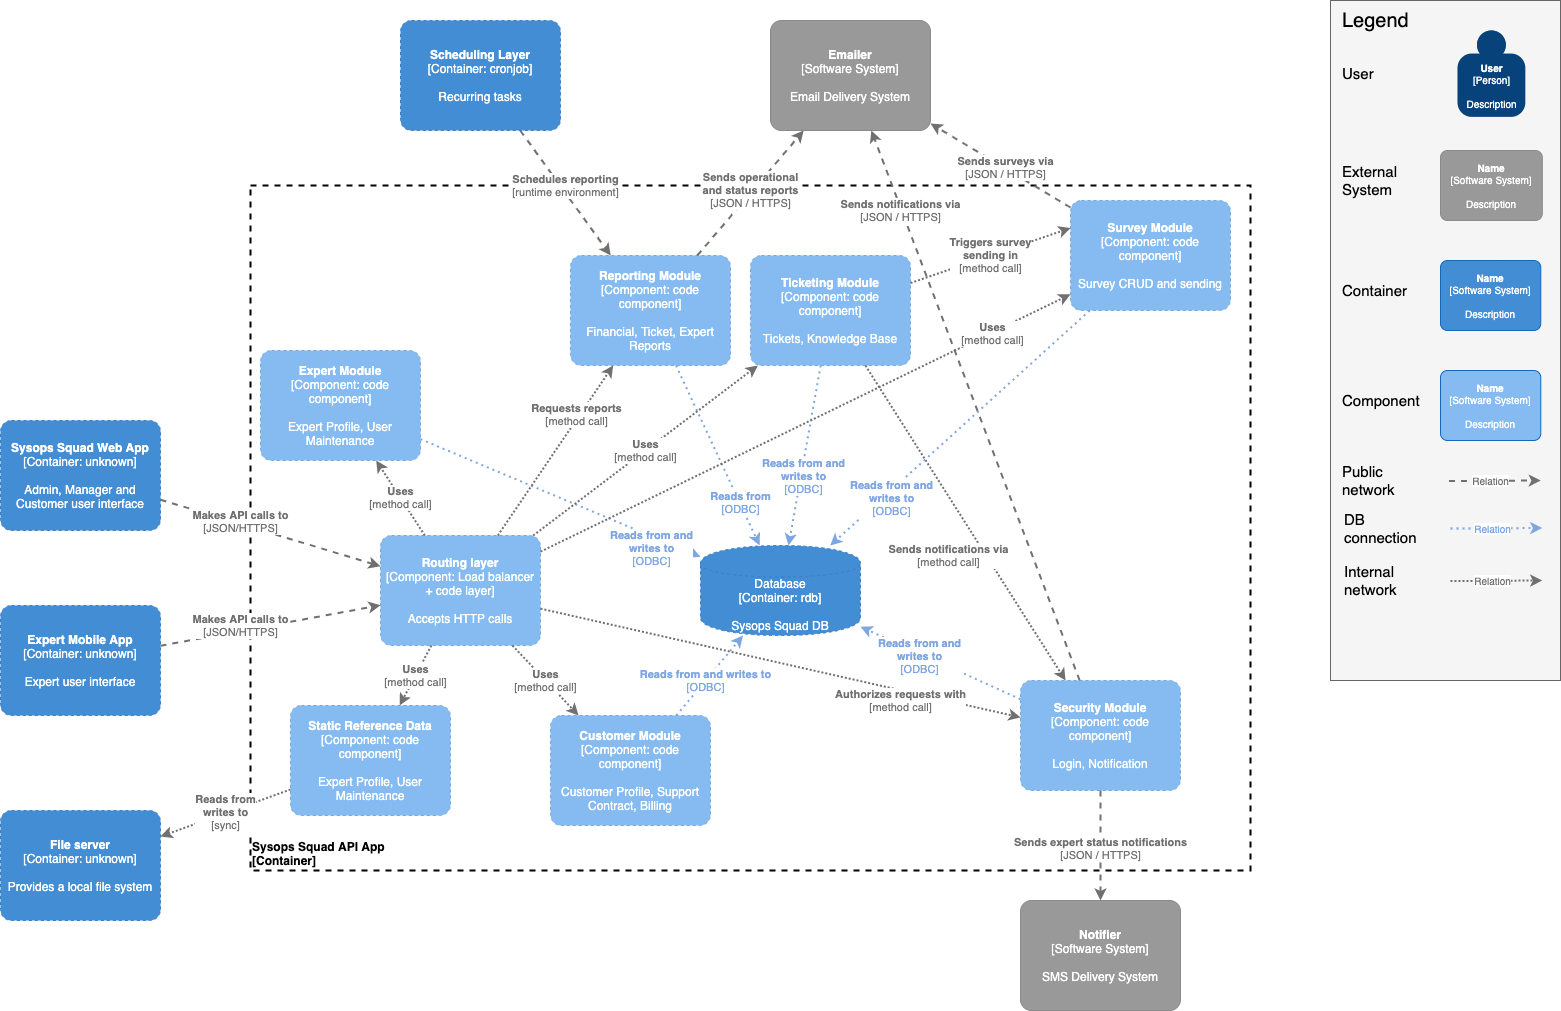
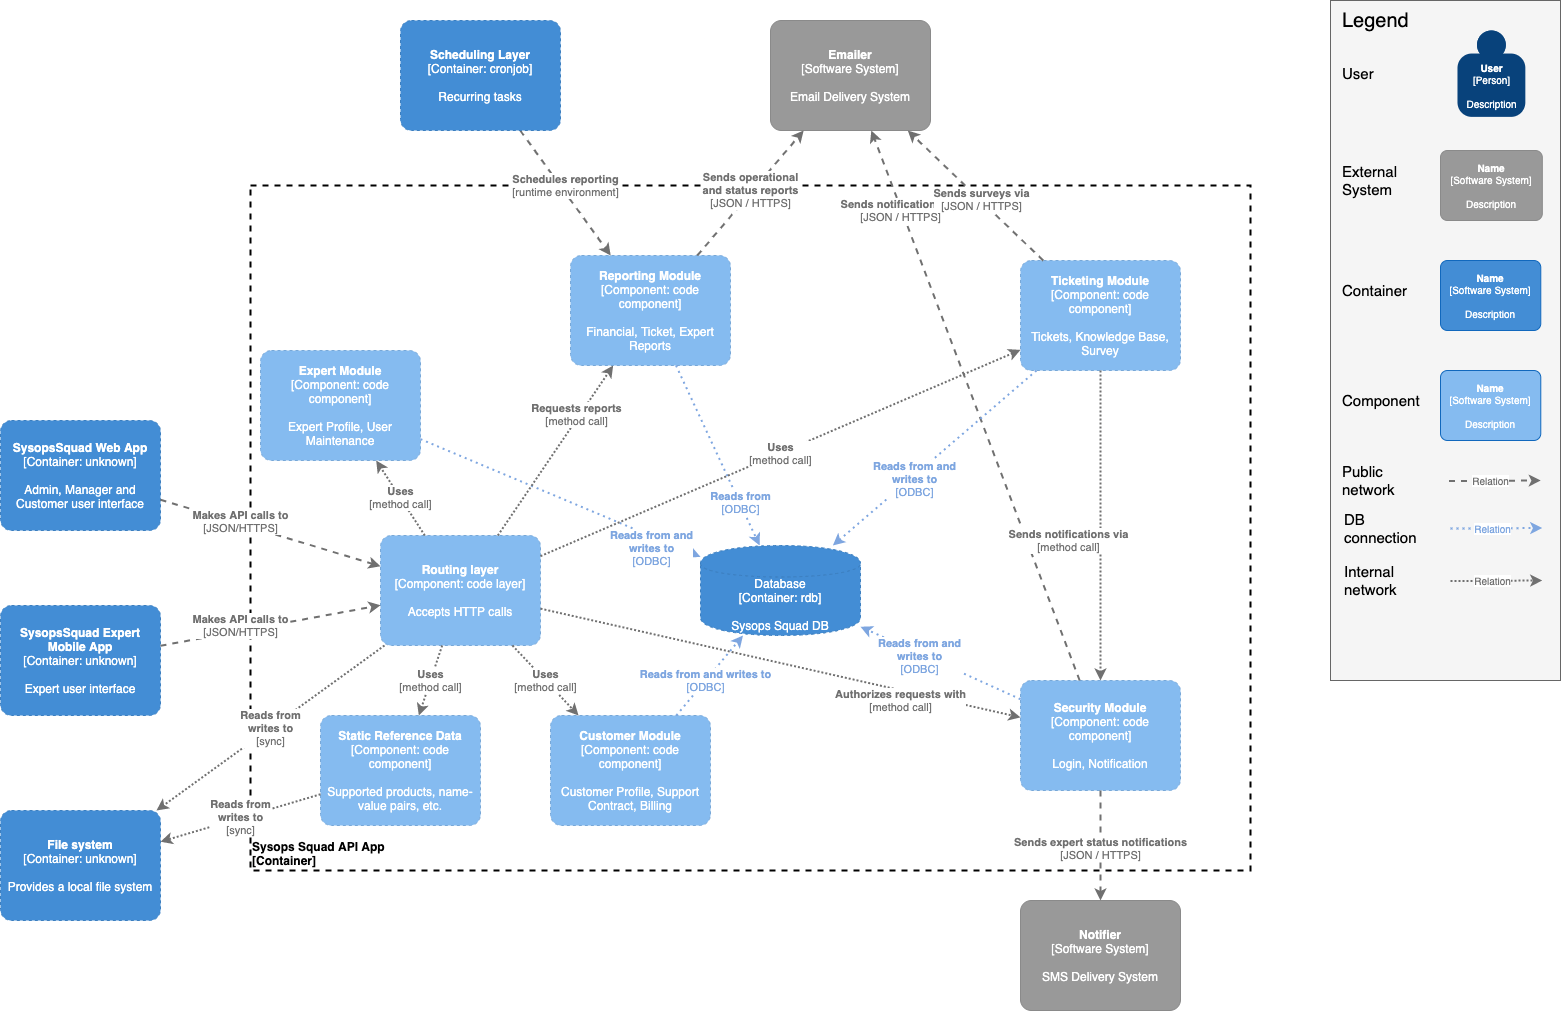
Final

diff --git a/README.md b/README.md
@@ -1,8 +1,8 @@
 This project is the solution for the SysopsSquad problem for Kata Teamm8s.
 
-# Requirements
+# Objective
 
-Requirements of the project is to save Penultimate Electronics. The goal is to keep the user interfaces and the general workflows as is while enabling growth and improving user experience.
+Objective of the project is to save Penultimate Electronics, which struggles to keep its customers due to issues with the SysopsSquad ERP. The goal is to keep the user interfaces and the general workflows as is while enabling growth and improving user experience.
 
 # Assumptions
 
@@ -13,12 +13,12 @@ To provide sufficient context for our solution, it's important to state our assu
 3. There is a feature-complete API layer which is used by both the Web and Mobile apps. Both Web and Mobile apps are simple representation layers.
 4. There is only one database used by the system which was designed to be scaled vertically. (There may still be replicas in use.)
 5. There are no read- or write-specific databases and/or database connections.
-6. Static data (such as supported products and name-value pairs) does not live in the database, but in the filesystem.
-7. All internal calls are synchronous and based on method calls.
-8. There is a reasonable, strict CDP pipeline in place along with good software engineering practices in place. (Testing, static code analysis, etc.)
-9. We have a growing, but limited number of software engineers available. (20-30 engineers in 5-8 teams)
-
-Note that there is no programming language is assumed.
+6. Monolith is running on a single, however large node, also designed for vertical scaling.
+7. Static data (such as supported products and name-value pairs) does not live in the database, but in the server running the monolith.
+8. All internal calls are synchronous and based on method calls. (Note that there is no programming language is assumed.)
+9. There is a reasonable, strict CDP pipeline in place along with good software engineering practices in place. (Testing, static code analysis, etc.
+10. Penultimate Electronics has a growing, but limited number of software engineers available. (20-30 engineers in 5-8 teams))
+11. Session management is file based. (Typical setup in legacy PHP applications, but not limited to such.)
 
 # Actors
 
@@ -36,20 +36,27 @@ The SysopsSquad System has the following components (and responsibilities):
 
 1. Export Module (Expert profile, User maintenance)
 2. Reporting Module (Reporting Shared, Financial reports, Ticket reports, Expert reports)
-3. Ticketing Module (Ticket maintenance, Ticket routing, Ticket notification, Knowledge base maintenance, Survey Module)
+3. Ticketing Module (Ticket maintenance, Ticket routing, Ticket notification, Knowledge base maintenance)
 4. Static Reference Module
 5. Customer Module (Customer profile, Support contact, Billing)
 6. Security Module (Login, Notification)
 
+Are diagrams also mention a Routing layer, which may or may not be implemented as separate component inside the Monolith. If not a component, then it is composed as a specific part of each components.
+
 # Architecture
+
+## System Context
 
 To provide better context for the system we're dealing with, we started with the [system context diagram](architecture/system-context-diagram.png), which is intended as both as the main reference point for all of the following diagrams for architects and engineers, and as for discussions with business owners. This diagram is expected to be expended over time, but not to otherwise change significantly, unless the company pivots its business.
 
-To further examine our situation, we then zoomed into the Sysops Squad ERP and crafted a [container diagram](architecture/container-diagram.png) with the individually deployable systems. Our assumption is that the Sysops Squad monolith consists of 3 main systems:
+## Containers
 
-1. Sysops Squad Web App
-2. Sysops Squad Mobile App
-3. Sysops Squad API App
+To further examine our situation, we then zoomed into the Sysops Squad ERP and crafted a [container diagram](architecture/container-diagram.png) with the individually deployable systems. Our assumption is that the Sysops Squad monolith consists of 4 main systems:
+
+1. Sysops Squad Web App (frontend)
+2. Sysops Squad Mobile App (frontend)
+3. Sysops Squad API App (backend)
+4. Sysops Squad DB (relational database)
 
 Based on our assumptions - especially assumption #3: Both Web and Mobile apps are simple representation layers -, we then zoomed in into the Web API, and crafted our [component diagram](architecture/api-component-diagram.png) for that.
 
@@ -93,11 +100,41 @@ Our solution consists of 3 distinct, but highly uneven steps:
 2. Save the company (medium effort)
 3. Invest in the future (large effort)
 
-# Migration plan (if any)
+## 1. Ensure solid foundations 
 
+This phase mostly includes steps which are hard to represent in our C4 diagrams and should enable horizontal scaling of our servers. These changes are the following:
+
+1. Move the static content inside the database. (ADR)
+2. Move the sessions management into a key-value store. (ADR)
+3. Introduce a load balancer.
+4. Introduce read replicas of the Monolith database. (ADR)
+5. Enable (manual) horizontal scaling of SysopsSquad ERP.
+
+Once these steps are implemented, we have enabled a simple horizontal scaling of the SysopsSquad ERP which could technically. At this point our architecture will look like [this](proposal/solid-foundations.png)
+
+## 2. Save the company
+
+1. Extract the reporting sub-system. ([ADR](adrs/extract-reporting.md), [component diagram](proposal/reporting-extracted.png))
+2. Extract the surveying sub-system. (ADR, [component diagram](proposal/surveying-extracted.png))
+3. Asynchronous ticket routing. (ADR, [component diagram](proposal/async-ticket-routing.png))
+4. Notification sub-system. ([ADR](adrs/notification-system.md), [component diagram](proposal/async-notification.png))
+
+At this point all user-reported problems should be managed, but maintainability is expected to remain an issue.
+
+## 3. Invest in the future
+
+To address maintainability, we need to create a systems which can be easily modified. This requires components to be de-coupled and loosely coupled. As a starting point, we propose that modules no longer communicate with each other, except via accessing the databases and messaging services. In practice this means some version of a service-oriented architecture.
+
+Once the engineering department grows much larger (100+), we expect to see a natural growth toward a microservices architecture, similar to our current [vision](proposal/vision.png), but which will be driven by organizational changes.
 
 
 # List of Architecture Decision Records (ADRs)
 
-1. [Extract Reporting](adrs/extract-reporting.md)
-2. [Notification System](adrs/notification-system.md)
+1. Static Content in DB
+2. Sessions in Key-Value Store
+3. API Behind Load Balancers
+4. Read Replicas for Read
+5. [Extract The Reporting](adrs/extract-reporting.md)
+6. [Notification System](adrs/notification-system.md)
+7. Extract The Surveying System
+8. Asynchronous ticket routing

diff --git a/adrs/extract-reporting.md b/adrs/extract-reporting.md
@@ -1,4 +1,4 @@
-# ADR 1: Extract Reporting from the Main System (a.k.a the Monolith)
+# ADR: Extract Reporting from the Main System (a.k.a the Monolith)
 
 ## Status
 

diff --git a/adrs/notification-system.md b/adrs/notification-system.md
@@ -1,4 +1,4 @@
-# ADR 2: Extract Notification Component
+# ADR: Extract Notification Component
 
 ## Status
 
